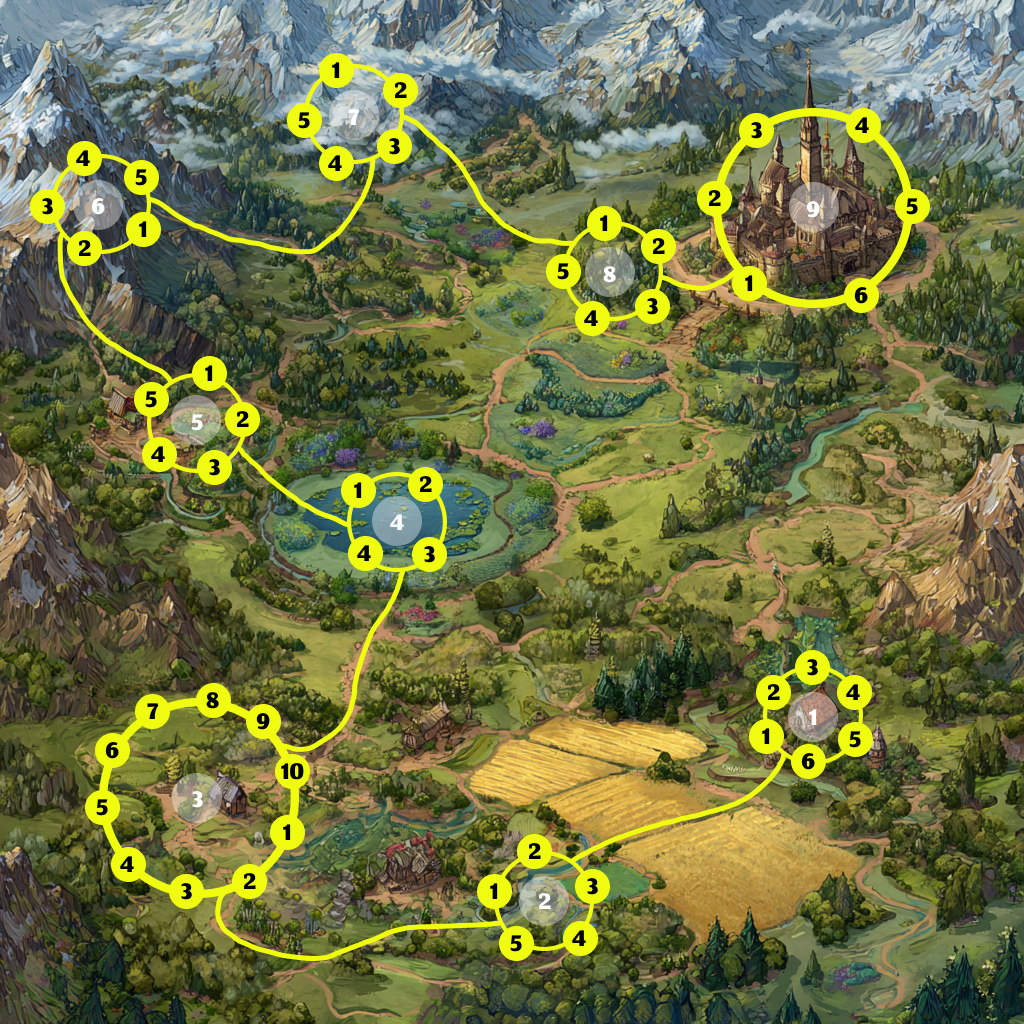
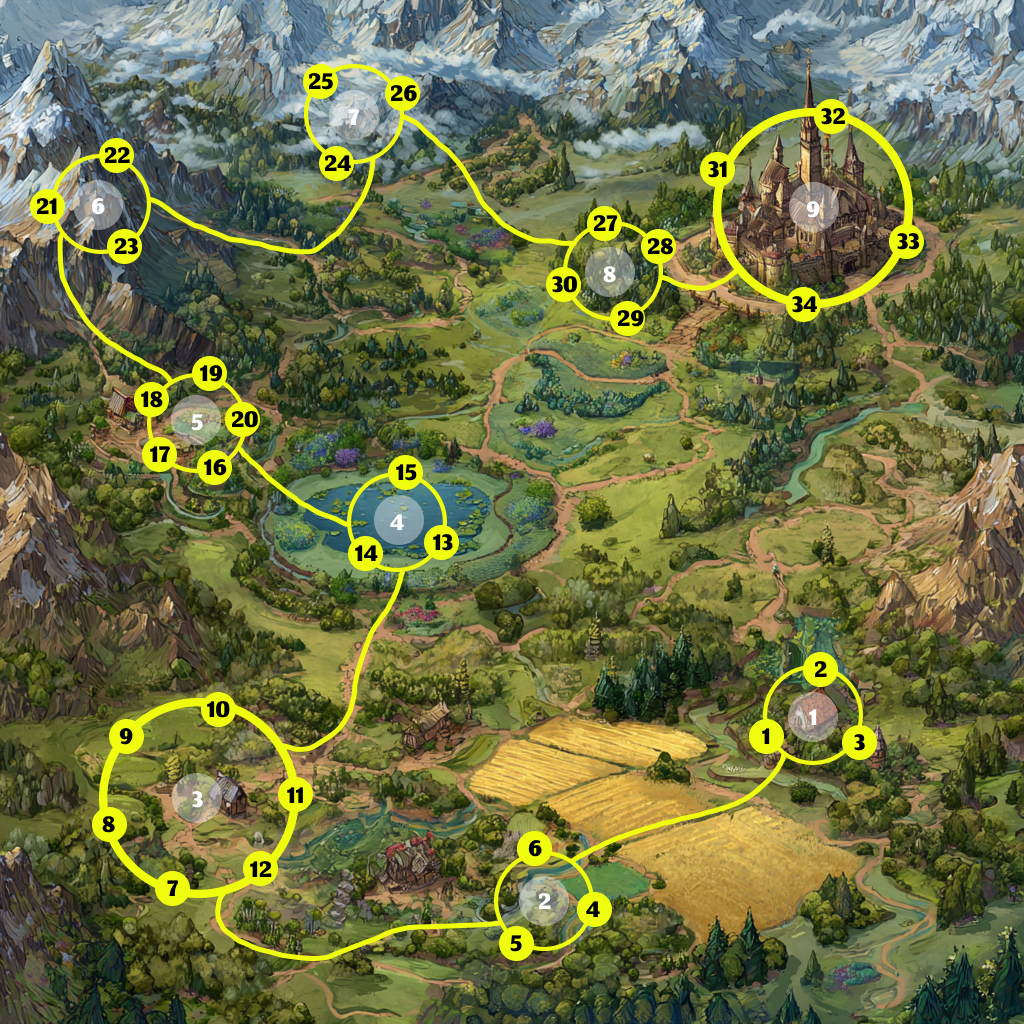
v2
karte, index

diff --git a/index.html b/index.html
@@ -140,7 +140,7 @@ var LZString=function(){var r=String.fromCharCode,o="ABCDEFGHIJKLMNOPQRSTUVWXYZa
 
 body {
   background-color: #2b1f14; /* rezerves tumši brūns fons */
-  background-image: url("C:/Users/agnesev/Documents/Twine/Images/parchment-bg.png");
+  background-image: url("Images/parchment-bg.png");
   background-repeat: repeat-y; /* atkārtojas tikai vertikāli */
   background-position: top center;
   background-size: 100% auto; /* horizontāli izstiepjas, vertikāli atkārtojas */
@@ -511,7 +511,7 @@ Izvēlies vienu no viņiem un sāc savu ceļu:
    &lt;&lt;elseif $completedTasks gte 27 and $completedTasks lte 30&gt;&gt;
    &lt;img src=&quot;Images/map8.jpg&quot; alt=&quot;Ceļojuma karte ar iezīmētu Astoto lokāciju&quot; style=&quot;width: 50%;&quot;&gt;
    &lt;&lt;elseif $completedTasks gte 31 and $completedTasks lte 34&gt;&gt;
-   &lt;img src=&quot;Images/map0.jpg&quot; alt=&quot;Ceļojuma karte ar iezīmētu Devīto lokāciju&quot; style=&quot;width: 50%;&quot;&gt;
+   &lt;img src=&quot;Images/map9.jpg&quot; alt=&quot;Ceļojuma karte ar iezīmētu Devīto lokāciju&quot; style=&quot;width: 50%;&quot;&gt;
    &lt;&lt;/if&gt;&gt;
    &lt;&lt;/if&gt;&gt;
 
@@ -642,7 +642,7 @@ Tev jau ir kopā $score punkti&lt;br&gt;
        &lt;span&gt;&lt;a href=&quot;#&quot; onclick=&quot;saveAndExit(); return false;&quot;&gt;Iziet&lt;/a&gt;&lt;/span&gt;
    &lt;/div&gt;
 
-[[Epilogs]]</tw-passagedata><tw-passagedata pid="10" name="Epilogs" tags="" position="1350,600" size="100,100">Un tad tas notika.
+[[Lokācija2]] [[Lokācija3]] [[Lokācija4]] [[Lokācija5]] [[Lokācija6]] [[Lokācija7]] [[Lokācija8]] [[Lokācija9]] [[Epilogs]]</tw-passagedata><tw-passagedata pid="10" name="Epilogs" tags="" position="1350,600" size="100,100">Un tad tas notika.
 Māsters Floviuss, UX Burvis, ar burvju zizli uzvilka gaisā burvju zīmi, kas pēkšņi atklāja visus slēptos navigācijas ceļus.
 &quot;Mēs uzveiksim tevi ar vienkāršību un skaidrību! Un nedaudz zobenu...&quot; Sērs Scrolliuss iesaucās, un viņa balss atbalsojās visā pilī.
 Fraudis uz sava maģiskā kalkulatora zibens ātrumā drukāja kaut kādas formulas.
